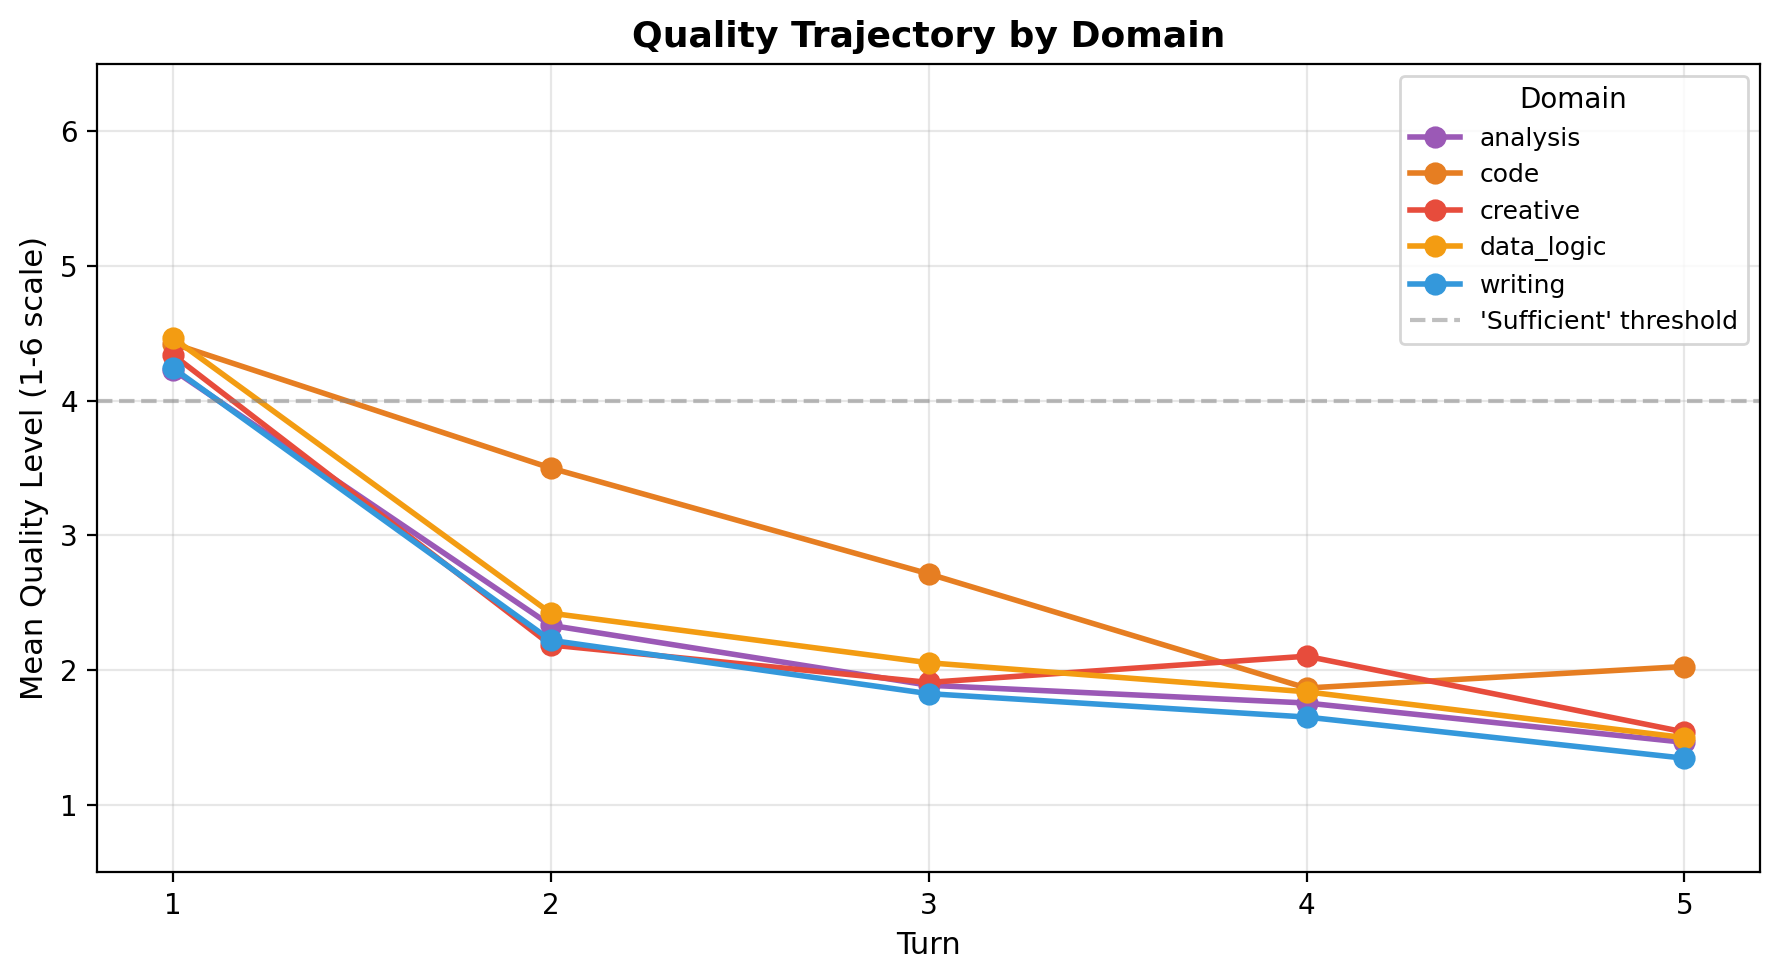
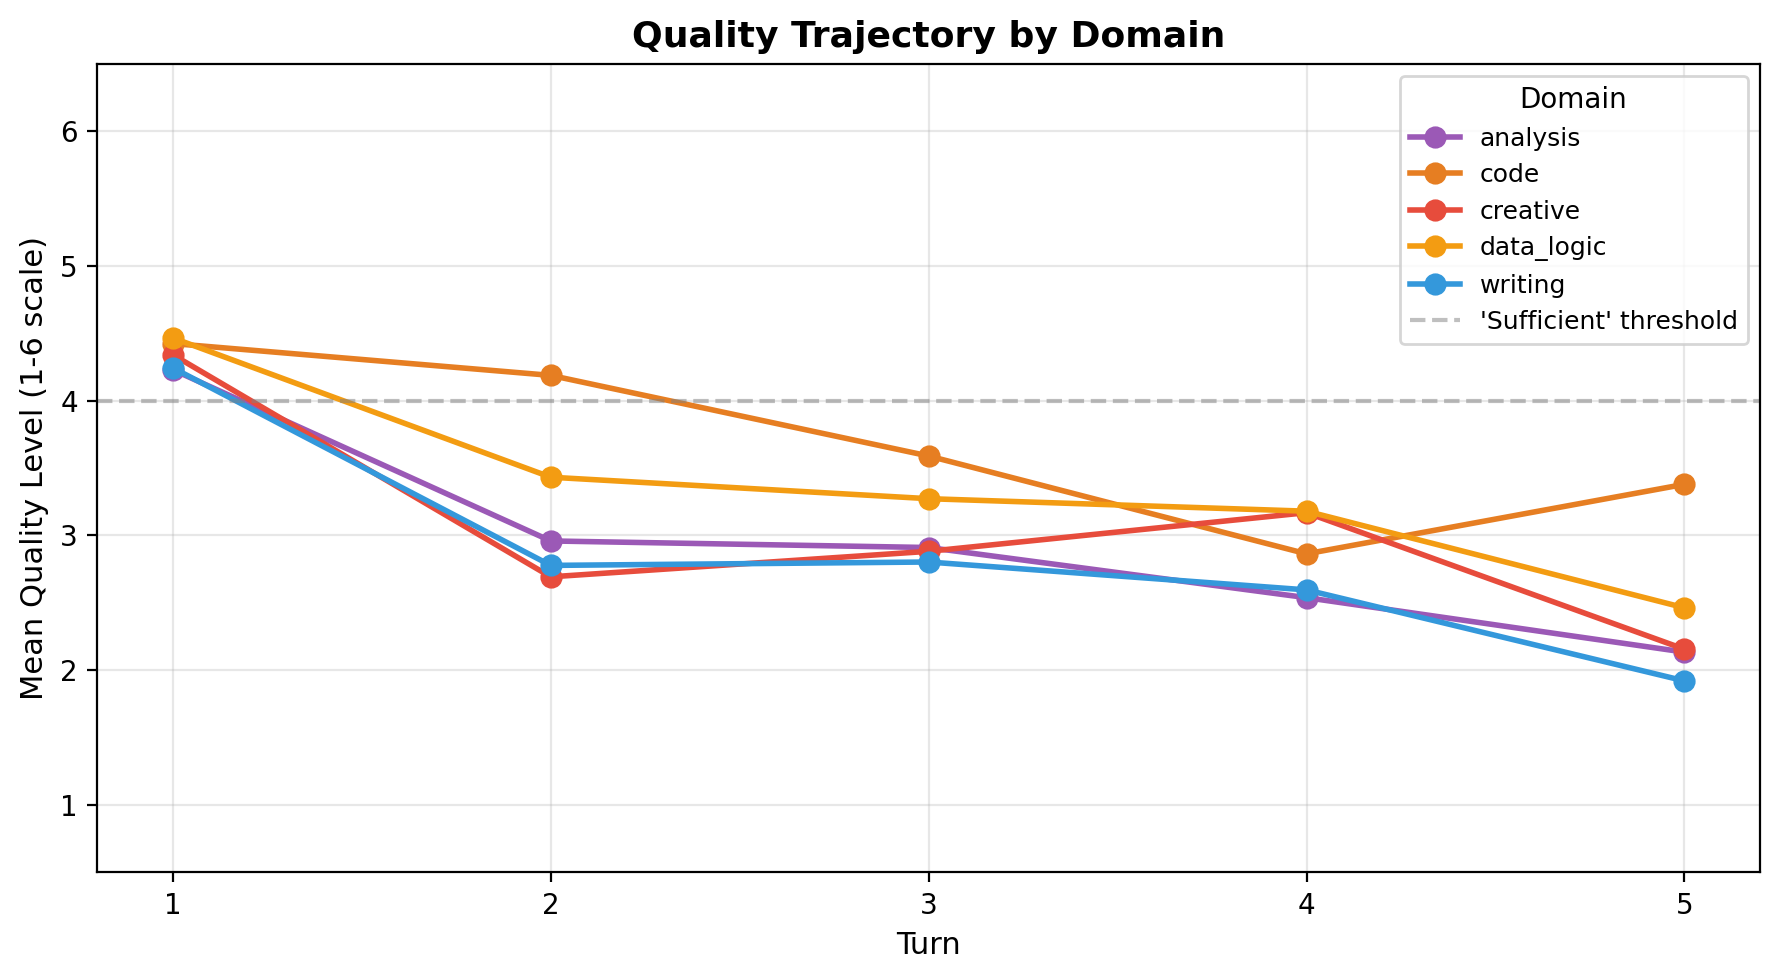
Fix analysis: exclude meta-responses from quality population, recompute yield math
Meta-responses (decline-to-revise) are now treated as N/A and excluded
from graded quality computations, matching the human evaluation protocol.
Previously they were scored Level 1 and polluted quality curves, MRY/CRY/CARY
equations, OCS, and unit economics.

Key changes in corrected data:
- Revision-only quality: 4.34 -> 3.23 -> 3.13 -> 2.87 -> 2.45 (was 4.34 -> 1.58)
- OCS drops from 0.696 to 0.560 (quality regression was inflated by meta-responses)
- Llama optimal stop moves from T2 to T4 (revision actually helps this model)
- CARY curves now reflect true revision quality, not meta-response artifacts

diff --git a/scripts/study3/analyze.py b/scripts/study3/analyze.py
@@ -132,6 +132,32 @@ def load_evaluator() -> pd.DataFrame:
     return pd.DataFrame(valid)
 
 
+def _build_revision_flags() -> dict[tuple[str, int], bool]:
+    """Build a lookup of (trial_id, turn) -> is_revision for all worker trials."""
+    trials = load_jsonl(S3_WORKER_TRIALS_PATH)
+    flags = {}
+    for trial in [t for t in trials if t.get("status") == "success"]:
+        for turn_idx, response in enumerate(trial["responses"]):
+            turn = turn_idx + 1
+            flags[(trial["trial_id"], turn)] = True if turn == 1 else classify_revision(response)
+    return flags
+
+
+def get_revision_only_eval(eval_df: pd.DataFrame) -> pd.DataFrame:
+    """Filter eval_df to only include turns where the model produced actual content.
+
+    Meta-responses (decline-to-revise) are excluded from the graded population
+    entirely, matching the human evaluation protocol where they receive N/A
+    rather than a quality score.
+    """
+    flags = _build_revision_flags()
+    df = eval_df.copy()
+    df["is_revision"] = df.apply(
+        lambda r: flags.get((r["worker_trial_id"], r["turn"]), True), axis=1
+    )
+    return df[df["is_revision"]].drop(columns=["is_revision"])
+
+
 # ── RQ1: Revision Yield Curve ──
 
 def rq1_revision_yield_curve(worker_df: pd.DataFrame, eval_df: pd.DataFrame) -> dict:
@@ -780,7 +806,7 @@ def compute_cry(quality_by_turn: dict, tokens_by_turn: dict) -> dict:
 
 
 def compute_cary(quality_by_turn: dict, tokens_by_turn: dict, C: float) -> dict:
-    """Cost-Adjusted Revision Yield: CARY(t) = [Q(t)/4] * e^(-C * T_cum(t))"""
+    """Cost-Adjusted Revision Yield: CARY(t) = [Q(t)/6] * e^(-C * T_cum(t))"""
     turns = sorted(quality_by_turn.keys())
     cary = {}
     t_cum = 0
@@ -793,9 +819,13 @@ def compute_cary(quality_by_turn: dict, tokens_by_turn: dict, C: float) -> dict:
 def rq15_revision_yield_equations(eval_df: pd.DataFrame, worker_df: pd.DataFrame) -> dict:
     print("\n== RQ15: Revision Yield Equations ==")
 
-    # Aggregate quality and tokens by turn
-    level_by_turn = eval_df.groupby("turn")["level"].mean().to_dict()
-    tokens_by_turn = worker_df.groupby("turn")["output_tokens"].mean().to_dict()
+    # Use revision-only quality (meta-responses excluded as N/A)
+    rev_eval = get_revision_only_eval(eval_df)
+    level_by_turn = rev_eval.groupby("turn")["level"].mean().to_dict()
+    # Tokens from revision-only worker rows
+    rev_worker = worker_df[worker_df["revised"] == True]
+    tokens_by_turn = rev_worker.groupby("turn")["output_tokens"].mean().to_dict()
+    print(f"  (Using revision-only data: {len(rev_eval)} graded responses, meta-responses excluded as N/A)")
 
     mry = compute_mry(level_by_turn, tokens_by_turn)
     cry = compute_cry(level_by_turn, tokens_by_turn)
@@ -866,10 +896,13 @@ BUDGET_TIERS = {
 
 def rq16_unit_economics(eval_df: pd.DataFrame, worker_df: pd.DataFrame) -> dict:
     print("\n== RQ16: Unit Economics ==")
+    # Use revision-only quality (meta-responses excluded as N/A)
+    rev_eval = get_revision_only_eval(eval_df)
+    print(f"  (Using revision-only quality: meta-responses excluded as N/A)")
     results = {}
 
     for model in sorted(worker_df["model"].unique()):
-        m_eval = eval_df[eval_df["model"] == model]
+        m_eval = rev_eval[rev_eval["model"] == model]
         m_worker = worker_df[worker_df["model"] == model]
 
         level_by_turn = m_eval.groupby("turn")["level"].mean().to_dict()
@@ -956,8 +989,12 @@ def rq16_unit_economics(eval_df: pd.DataFrame, worker_df: pd.DataFrame) -> dict:
 def rq17_overcorrection_magnitude(eval_df: pd.DataFrame, worker_df: pd.DataFrame) -> dict:
     print("\n== RQ17: Overcorrection Magnitude (OCS) ==")
 
-    # For each trial, find t_done (first turn with level >= 4)
-    drp_per_trial = eval_df[eval_df["level"] >= 4].groupby("worker_trial_id")["turn"].min()
+    # Use revision-only eval: meta-responses are N/A, not Level 1
+    rev_eval = get_revision_only_eval(eval_df)
+    print(f"  (Using revision-only quality: meta-responses excluded as N/A)")
+
+    # For each trial, find t_done (first revision turn with level >= 4)
+    drp_per_trial = rev_eval[rev_eval["level"] >= 4].groupby("worker_trial_id")["turn"].min()
 
     trials = load_jsonl(S3_WORKER_TRIALS_PATH)
     trial_data = {}
@@ -973,9 +1010,11 @@ def rq17_overcorrection_magnitude(eval_df: pd.DataFrame, worker_df: pd.DataFrame
                 "domain": t["domain"],
             }
 
-    # Get quality at t_done and final turn
+    # Get quality at t_done and final turn -- revision-only
+    # For quality regression, use the last REVISION turn's quality, not the
+    # last turn overall (which may be a meta-response scored Level 1)
     eval_by_trial_turn = {}
-    for _, row in eval_df.iterrows():
+    for _, row in rev_eval.iterrows():
         eval_by_trial_turn[(row["worker_trial_id"], row["turn"])] = row["level"]
 
     ocs_scores = []
@@ -998,8 +1037,14 @@ def rq17_overcorrection_magnitude(eval_df: pd.DataFrame, worker_df: pd.DataFrame
         wtf = tokens_after / total_tokens if total_tokens > 0 else 0
 
         # Component 3: Quality Regression
+        # Use the last revision turn's quality (not last turn overall,
+        # which may be a meta-response excluded from grading)
         q_done = eval_by_trial_turn.get((trial_id, t_done), None)
-        q_final = eval_by_trial_turn.get((trial_id, n_turns), None)
+        q_final = None
+        for t_check in range(n_turns, 0, -1):
+            q_final = eval_by_trial_turn.get((trial_id, t_check), None)
+            if q_final is not None:
+                break
         if q_done is not None and q_final is not None:
             qr = max(0, q_done - q_final)
         else:

diff --git a/scripts/study3/visualize.py b/scripts/study3/visualize.py
@@ -25,6 +25,7 @@ import seaborn as sns
 from scripts.config import S3_FIGURES_DIR, S3_STATS_DIR
 from scripts.study3.analyze import (
     compute_cary,
+    get_revision_only_eval,
     load_evaluator,
     load_worker_turns,
 )
@@ -34,10 +35,12 @@ from scripts.utils import load_jsonl
 def fig1_revision_yield_curve(worker_df: pd.DataFrame, eval_df: pd.DataFrame):
     """Main figure: Revision Yield Curve with 6-level scale and DRP annotation."""
 
-    eval_done = eval_df.groupby("turn").apply(lambda g: (g["level"] >= 4).mean())
+    # Use revision-only quality for the quality trajectory
+    rev_eval = get_revision_only_eval(eval_df)
+    eval_done = rev_eval.groupby("turn").apply(lambda g: (g["level"] >= 4).mean())
     worker_t2 = worker_df[worker_df["turn"] >= 2]
     worker_rev = worker_t2.groupby("turn")["revised"].mean()
-    level = eval_df.groupby("turn")["level"].mean()
+    level = rev_eval.groupby("turn")["level"].mean()
 
     fig, (ax1, ax2) = plt.subplots(2, 1, figsize=(9, 8), sharex=True,
                                      gridspec_kw={"height_ratios": [2, 1]})
@@ -98,7 +101,8 @@ def fig1_revision_yield_curve(worker_df: pd.DataFrame, eval_df: pd.DataFrame):
 
 
 def fig2_divergence_by_model(worker_df: pd.DataFrame, eval_df: pd.DataFrame):
-    """Divergence curves faceted by model (6 models, 2x3 grid)."""
+    """Divergence curves faceted by model (6 models, 2x3 grid, revision-only quality)."""
+    eval_df = get_revision_only_eval(eval_df)
     models = sorted(worker_df["model"].unique())
     n_models = len(models)
     ncols = min(3, n_models)
@@ -154,7 +158,8 @@ def fig2_divergence_by_model(worker_df: pd.DataFrame, eval_df: pd.DataFrame):
 
 
 def fig3_drp_by_domain(eval_df: pd.DataFrame):
-    """Quality trajectories by domain with DRP annotated."""
+    """Quality trajectories by domain with DRP annotated (revision-only)."""
+    eval_df = get_revision_only_eval(eval_df)
     domains = sorted(eval_df["domain"].unique())
     palette = {"code": "#e67e22", "data_logic": "#f39c12", "analysis": "#9b59b6",
                "writing": "#3498db", "creative": "#e74c3c"}
@@ -221,9 +226,11 @@ def fig4_stylistic_drift(worker_df: pd.DataFrame):
 
 
 def fig5_cary_curves(eval_df: pd.DataFrame, worker_df: pd.DataFrame):
-    """CARY curves at multiple C values showing optimal stopping turn."""
-    level_by_turn = eval_df.groupby("turn")["level"].mean().to_dict()
-    tokens_by_turn = worker_df.groupby("turn")["output_tokens"].mean().to_dict()
+    """CARY curves at multiple C values showing optimal stopping turn (revision-only)."""
+    rev_eval = get_revision_only_eval(eval_df)
+    level_by_turn = rev_eval.groupby("turn")["level"].mean().to_dict()
+    rev_worker = worker_df[worker_df["revised"] == True]
+    tokens_by_turn = rev_worker.groupby("turn")["output_tokens"].mean().to_dict()
 
     c_values = {
         "Unlimited (C=0)": 0,
@@ -263,12 +270,13 @@ def fig5_cary_curves(eval_df: pd.DataFrame, worker_df: pd.DataFrame):
 
 
 def fig6_unit_economics(eval_df: pd.DataFrame, worker_df: pd.DataFrame):
-    """Bar chart comparing revision tax across models."""
+    """Bar chart comparing revision tax across models (revision-only quality)."""
+    rev_eval = get_revision_only_eval(eval_df)
     models = sorted(worker_df["model"].unique())
     revision_taxes = []
 
     for model in models:
-        m_eval = eval_df[eval_df["model"] == model]
+        m_eval = rev_eval[rev_eval["model"] == model]
         m_worker = worker_df[worker_df["model"] == model]
 
         level_by_turn = m_eval.groupby("turn")["level"].mean().to_dict()
